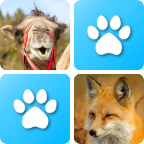
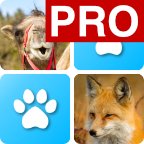
#6 Přidána nová ikona aplikace

Changed region(s): [[0.3056, 0.0, 1.0, 0.3056]]

diff --git a/platforms/android/app/src/main/assets/www/js/index.js b/platforms/android/app/src/main/assets/www/js/index.js
@@ -107,11 +107,11 @@ var app = {
         },
         'default_green': {
             'price': 50,
-            'name': 'green'
+            'name': 'default_green'
         },
         'default_red': {
             'price': 50,
-            'name': 'red'
+            'name': 'default_red'
         },
         'hawk': {
             'price': 200,
@@ -141,10 +141,6 @@ var app = {
     onDeviceReady: function() {
         let application = this;
         this.prepareApplication();
-
-        document.addEventListener('onAdLoaded',function(data){
-            if(data.adType === 'banner') showBanner("bottom");
-        });
 
         let actionElms = document.querySelectorAll('[data-action]');
         actionElms.forEach(function(item){
@@ -188,7 +184,6 @@ var app = {
     prepareApplication: function () {
         let application = this;
         setTimeout(function () {
-            iniAdsSettings();
             setupLang();
             application.iniStorageValues();
             iniRatedValues();
@@ -197,11 +192,9 @@ var app = {
         setTimeout(function () {
             application.drawTheme();
             application.showStars();
-            application.setAdsSettingRadio();
             application.setLangRadio();
             application.setCardSettingsRatio();
             application.setThemeRadio();
-            prepareBannerAd();
         }, 1000);
 
         setTimeout(function () {
@@ -237,11 +230,10 @@ var app = {
         this.removeAllCards();
         this.showHidePage(pages, PgMain);
         this.showStars();
-        this.setAdsSettingRadio();
         this.setLangRadio();
         this.setCardSettingsRatio();
 
-        if(gamesPlayed >= 5){
+        if(gamesPlayed >= 20){
             showRateDialogIfNotRated();
         }
     },
@@ -298,29 +290,6 @@ var app = {
 
     actionRepeatGame: function (button) {
         this.prepareGame(this.difficulty);
-    },
-
-    actionSetAdsPreferences: function (element) {
-        let radio = element.querySelector(".radio");
-        if(!radio.classList.contains("selected")){
-            let selectedRadio = document.querySelectorAll('.adOption .radio.selected');
-            selectedRadio.forEach(function (item) {
-                item.classList.remove('selected');
-            });
-
-            radio.classList.add('selected');
-
-            if(element.dataset.option === 'Banner'){
-                changeBannerAllow('allow');
-                changeInterstitialAllow('disallow');
-                prepareBannerAd();
-            }else if(element.dataset.option === 'Interstitial'){
-                changeBannerAllow('disallow');
-                changeInterstitialAllow('allow');
-                prepareInterstitialAd();
-                hideBanner();
-            }
-        }
     },
 
     actionSetCard: function (element) {
@@ -428,13 +397,6 @@ var app = {
 
                        flipped[0].classList.add("hidden");
                        flipped[0].classList.remove("flipped");
-                    }
-                    if(restCards.length === 6){
-                        let interestial = storageMng.getValue('allowInterstitial');
-
-                        if(interestial === 'allow'){
-                            prepareInterstitialAd(true);
-                        }
                     }
                    if(restCards.length <= 2){
                        application.finishGame();
@@ -583,7 +545,6 @@ var app = {
         switch (option) {
             case "1": categoryElement = document.getElementById('SettingsCategoryGame'); break;
             case "2": categoryElement = document.getElementById('SettingsCategoryLang'); break;
-            case "3": categoryElement = document.getElementById('SettingsCategoryAds'); break;
         }
         let categories = document.querySelectorAll(".mainActivity > .settings_category:not(.none)");
 
@@ -592,21 +553,6 @@ var app = {
         });
 
         categoryElement.classList.remove('none');
-    },
-
-    setAdsSettingRadio: function () {
-        let banner = storageMng.getValue('allowBanner');
-        let interstitial = storageMng.getValue('allowInterstitial');
-
-        if(banner === "allow"){
-            let radio = document.querySelector('.adOption[data-option="Banner"] .radio');
-            radio.classList.add('selected');
-
-        }else if(interstitial === 'allow'){
-            let radio = document.querySelector('.adOption[data-option="Interstitial"] .radio');
-            radio.classList.add('selected');
-
-        }
     },
 
     setLangRadio: function (){
@@ -669,7 +615,6 @@ var app = {
             storageMng.setValue('saved', '0');
             storageMng.setValue('gamesPlayed', gamesPlayed);
 
-            showInterstitial();
         }, 1000);
     },
 
@@ -882,15 +827,6 @@ var app = {
         }
 
         let flipped = document.querySelectorAll('.card.flipped');
-        let restCards = document.querySelectorAll('.card:not(.hidden)');
-
-        if(restCards.length <= 6){
-            let interestial = storageMng.getValue('allowInterstitial');
-
-            if(interestial === 'allow'){
-                prepareInterstitialAd();
-            }
-        }
 
         if(flipped.length === 2){
             if(flipped[0].dataset.img === flipped[1].dataset.img){

diff --git a/platforms/android/app/src/main/assets/www/index.html b/platforms/android/app/src/main/assets/www/index.html
@@ -95,9 +95,6 @@
                     <div class="option_settings" data-action="ShowSettingsCategory" data-option="2">
                         <span data-trans="language">Jazyk</span>
                     </div>
-                    <div class="option_settings" data-action="ShowSettingsCategory" data-option="3">
-                        <span data-trans="ads">Reklamy</span>
-                    </div>
                 </div>
                 <div class="mainActivity flex-row wrap">
                     <div id="SettingsCategoryGame" class="settings_category">
@@ -170,30 +167,6 @@
                                         <div class="langFlag" data-flag="germany"></div>
                                     </div>
                                     <div class="langName"><span>German</span></div>
-                                </div>
-                                <div class="radioContainer">
-                                    <div class="radio"></div>
-                                </div>
-                            </div>
-                        </div>
-                    </div>
-                    <div id="SettingsCategoryAds" class="settings_category none">
-                        <div class="settingsRow flex-row nowrap">
-                            <div class="adOption flex-row nowrap option" data-action="SetAdsPreferences" data-option="Banner">
-                                <div class="settingAdText flex-column nowrap" >
-                                    <div class="adName" data-trans="banner">Banner</div>
-                                    <div class="adDescription" data-trans="banner_info">Banner bude neustále zobrazen ve spodní části obrazovky</div>
-                                </div>
-                                <div class="radioContainer">
-                                    <div class="radio"></div>
-                                </div>
-                            </div>
-                        </div>
-                        <div class="settingsRow flex-row nowrap">
-                            <div class="adOption flex-row nowrap option" data-action="SetAdsPreferences" data-option="Interstitial">
-                                <div class="settingAdText flex-column nowrap">
-                                    <div class="adName" data-trans="fullscreen">Fullscreen</div>
-                                    <div class="adDescription" data-trans="full_info">Před začátkem hry se zobrazí reklama přes celou obrazovku</div>
                                 </div>
                                 <div class="radioContainer">
                                     <div class="radio"></div>
@@ -368,7 +341,6 @@
         <script type="text/javascript" src="cordova.js"></script>
         <script type="text/javascript" src="js/services/StorageManager/StorageManager.js"></script>
         <script type="text/javascript" src="js/services/LangLoader/LangLoader.js"></script>
-        <script type="text/javascript" src="js/services/AdsManager/AdsManager.js"></script>
         <script type="text/javascript" src="js/services/RateManager/RateManager.js"></script>
         <script type="text/javascript" src="js/index.js"></script>
     </body>
